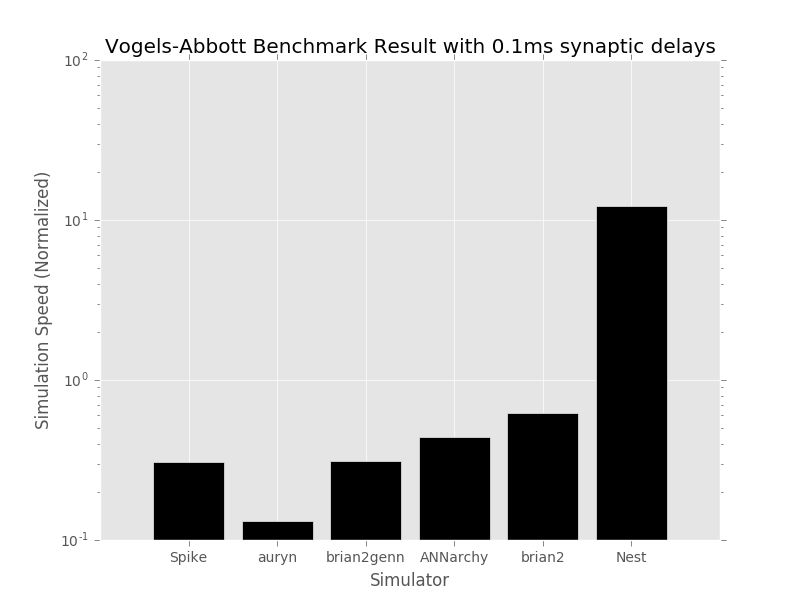
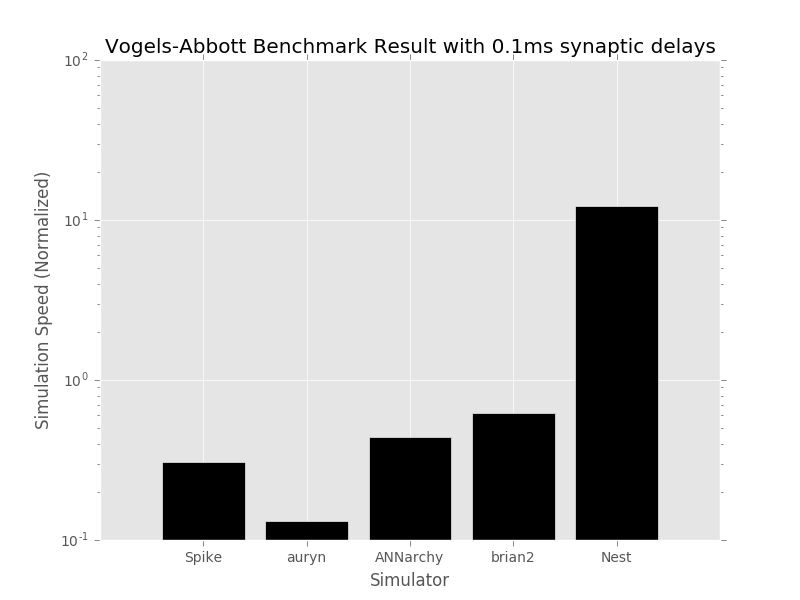
Removal of brian2genn since it is not yet published. Addition of details to files to be used for brunel comparison.

diff --git a/Benchmarks/Brunel10K/Spike/Brunel10K.cpp b/Benchmarks/Brunel10K/Spike/Brunel10K.cpp
@@ -15,7 +15,7 @@
 #include "Spike/Neurons/LIFSpikingNeurons.hpp"
 #include "Spike/Neurons/PoissonInputSpikingNeurons.hpp"
 #include "Spike/Synapses/VoltageSpikingSynapses.hpp"
-#include "Spike/Plasticity/VogelsSTDPPlasticity.hpp"
+#include "Spike/Plasticity/WeightDependentSTDPPlasticity.hpp"
 
 #include <fstream>
 #include <iostream>
@@ -31,6 +31,7 @@ int main (int argc, char *argv[]){
 	// Getting options:
 	float simtime = 20.0;
 	bool fast = false;
+  bool plastic = false;
 	int num_timesteps_min_delay = 1;
 	int num_timesteps_max_delay = 1;
 	const char* const short_opts = "";
@@ -38,7 +39,8 @@ int main (int argc, char *argv[]){
 		{"simtime", 1, nullptr, 0},
 		{"fast", 0, nullptr, 1},
 		{"num_timesteps_min_delay", 1, nullptr, 2},
-		{"num_timesteps_max_delay", 1, nullptr, 3}
+		{"num_timesteps_max_delay", 1, nullptr, 3},
+		{"plastic", 0, nullptr, 4},
 	};
 	// Check the set of options
 	while (true) {
@@ -70,6 +72,10 @@ int main (int argc, char *argv[]){
 					exit(1);
 				}	
 				break;
+			case 4:
+				printf("Running with plasticity ON\n");
+				plastic = true;
+				break;
 		}
 	};
 	
@@ -82,7 +88,22 @@ int main (int argc, char *argv[]){
 	// Create neuron, synapse and stdp types for this model
 	LIFSpikingNeurons * lif_spiking_neurons = new LIFSpikingNeurons();
 	PoissonInputSpikingNeurons * poisson_input_spiking_neurons = new PoissonInputSpikingNeurons();
-	VoltageSpikingSynapses * voltage_spiking_synapses = new VoltageSpikingSynapses();
+	VoltageSpikingSynapses * voltage_spiking_synapses = new VoltageSpikingSynapses(42);
+
+  weightdependent_stdp_plasticity_parameters_struct * WDSTDP_PARAMS = new weightdependent_stdp_plasticity_parameters_struct;
+  WDSTDP_PARAMS->a_plus = 1.0;
+  WDSTDP_PARAMS->a_minus = 1.0;
+  WDSTDP_PARAMS->tau_plus = 0.02;
+  WDSTDP_PARAMS->tau_minus = 0.02;
+  WDSTDP_PARAMS->lambda = 0.01;
+  WDSTDP_PARAMS->alpha = 2.02;
+  WDSTDP_PARAMS->w_max = 0.3;
+  WeightDependentSTDPPlasticity * weightdependent_stdp = new WeightDependentSTDPPlasticity((SpikingSynapses *) voltage_spiking_synapses, (SpikingNeurons *)lif_spiking_neurons, (SpikingNeurons *) poisson_input_spiking_neurons, (stdp_plasticity_parameters_struct *) WDSTDP_PARAMS);
+
+  if (plastic)
+    BenchModel->AddPlasticityRule(weightdependent_stdp);
+
+
 	// Add my populations to the SpikingModel
 	BenchModel->spiking_neurons = lif_spiking_neurons;
 	BenchModel->input_spiking_neurons = poisson_input_spiking_neurons;
@@ -101,8 +122,8 @@ int main (int argc, char *argv[]){
 	EXC_NEURON_PARAMS->resting_potential_v0 = 0.0f*pow(10.0, -3);	// -74mV
 	INH_NEURON_PARAMS->resting_potential_v0 = 0.0f*pow(10.0, -3);	// -82mV
 
-	EXC_NEURON_PARAMS->absolute_refractory_period = 2.0f*pow(10, -3);  // ms
-	INH_NEURON_PARAMS->absolute_refractory_period = 2.0f*pow(10, -3);  // ms
+	EXC_NEURON_PARAMS->absolute_refractory_period = 0.0f*pow(10, -3);  // ms
+	INH_NEURON_PARAMS->absolute_refractory_period = 0.0f*pow(10, -3);  // ms
 
 	EXC_NEURON_PARAMS->threshold_for_action_potential_spike = 20.0f*pow(10.0, -3);
 	INH_NEURON_PARAMS->threshold_for_action_potential_spike = 20.0f*pow(10.0, -3);
@@ -149,35 +170,37 @@ int main (int argc, char *argv[]){
 	INPUT_SYN_PARAMS->delay_range[0] = num_timesteps_min_delay*timestep;
 	INPUT_SYN_PARAMS->delay_range[1] = num_timesteps_max_delay*timestep;
 	// Set Weight Range (in mVs)
-  float weight_multiplier = pow(10.0, -3);
   float weight_val = 0.1f;
   float gamma = 5.0f;
-	EXC_OUT_SYN_PARAMS->weight_range_bottom = weight_val * weight_multiplier;
-	EXC_OUT_SYN_PARAMS->weight_range_top = weight_val * weight_multiplier;
-	INH_OUT_SYN_PARAMS->weight_range_bottom = -gamma * weight_val * weight_multiplier;
-	INH_OUT_SYN_PARAMS->weight_range_top = -gamma * weight_val * weight_multiplier;
-	INPUT_SYN_PARAMS->weight_range_bottom = weight_val * weight_multiplier;
-	INPUT_SYN_PARAMS->weight_range_top = weight_val * weight_multiplier;
+	EXC_OUT_SYN_PARAMS->weight_range_bottom = weight_val;
+	EXC_OUT_SYN_PARAMS->weight_range_top = weight_val;
+	INH_OUT_SYN_PARAMS->weight_range_bottom = -gamma * weight_val;
+	INH_OUT_SYN_PARAMS->weight_range_top = -gamma * weight_val;
+	INPUT_SYN_PARAMS->weight_range_bottom = weight_val;
+	INPUT_SYN_PARAMS->weight_range_top = weight_val;
 
 	// Biological Scaling factors (ensures that voltage is in mV)
-	//EXC_OUT_SYN_PARAMS->biological_conductance_scaling_constant_lambda = 1.0f*pow(10.0,-3);
-	//INH_OUT_SYN_PARAMS->biological_conductance_scaling_constant_lambda = 1.0f*pow(10.0,-3);
-	//INPUT_SYN_PARAMS->biological_conductance_scaling_constant_lambda = 1.0f*pow(10.0,-3);
+  float weight_multiplier = powf(10.0, -3.0);
+	EXC_OUT_SYN_PARAMS->biological_conductance_scaling_constant_lambda = weight_multiplier;
+	INH_OUT_SYN_PARAMS->biological_conductance_scaling_constant_lambda = weight_multiplier;
+	INPUT_SYN_PARAMS->biological_conductance_scaling_constant_lambda = weight_multiplier;
 
 	// Creating Synapse Populations
 	EXC_OUT_SYN_PARAMS->connectivity_type = CONNECTIVITY_TYPE_RANDOM;
 	INH_OUT_SYN_PARAMS->connectivity_type = CONNECTIVITY_TYPE_RANDOM;
 	INPUT_SYN_PARAMS->connectivity_type = CONNECTIVITY_TYPE_RANDOM;
-	EXC_OUT_SYN_PARAMS->plasticity_vec.push_back(nullptr);
-	INH_OUT_SYN_PARAMS->plasticity_vec.push_back(nullptr);
-	INPUT_SYN_PARAMS->plasticity_vec.push_back(nullptr);
+	//EXC_OUT_SYN_PARAMS->plasticity_vec.push_back(nullptr);
+	//INH_OUT_SYN_PARAMS->plasticity_vec.push_back(nullptr);
+	//INPUT_SYN_PARAMS->plasticity_vec.push_back(nullptr);
 	EXC_OUT_SYN_PARAMS->random_connectivity_probability = 0.1; // 2%
 	INH_OUT_SYN_PARAMS->random_connectivity_probability = 0.1; // 2%
 	INPUT_SYN_PARAMS->random_connectivity_probability = 0.1; // 1%
 
 	// Connect all of the populations
-	BenchModel->AddSynapseGroup(EXCITATORY_NEURONS[0], EXCITATORY_NEURONS[0], EXC_OUT_SYN_PARAMS);
 	BenchModel->AddSynapseGroup(EXCITATORY_NEURONS[0], INHIBITORY_NEURONS[0], EXC_OUT_SYN_PARAMS);
+  if (plastic)
+	  EXC_OUT_SYN_PARAMS->plasticity_vec.push_back(weightdependent_stdp);
+	BenchModel->AddSynapseGroup(EXCITATORY_NEURONS[0], EXCITATORY_NEURONS[0], EXC_OUT_SYN_PARAMS);
 	BenchModel->AddSynapseGroup(INHIBITORY_NEURONS[0], EXCITATORY_NEURONS[0], INH_OUT_SYN_PARAMS);
 	BenchModel->AddSynapseGroup(INHIBITORY_NEURONS[0], INHIBITORY_NEURONS[0], INH_OUT_SYN_PARAMS);
 	BenchModel->AddSynapseGroup(input_layer_ID, EXCITATORY_NEURONS[0], INPUT_SYN_PARAMS);
@@ -187,11 +210,16 @@ int main (int argc, char *argv[]){
 		COMPLETE NETWORK SETUP
 	*/
 	BenchModel->finalise_model();
+  printf("Total Number Of Synapses: %d\n", voltage_spiking_synapses->total_number_of_synapses);
 
 
 	// Create the simulator options
 	Simulator_Options* simoptions = new Simulator_Options();
 	simoptions->run_simulation_general_options->presentation_time_per_stimulus_per_epoch = simtime;
+  if (plastic)
+    simoptions->run_simulation_general_options->apply_plasticity_to_relevant_synapses = true;
+  else 
+    simoptions->run_simulation_general_options->apply_plasticity_to_relevant_synapses = false;
 	if (!fast){
 		simoptions->recording_electrodes_options->collect_neuron_spikes_recording_electrodes_bool = true;
 		simoptions->file_storage_options->save_recorded_neuron_spikes_to_file = true;
@@ -206,7 +234,8 @@ int main (int argc, char *argv[]){
 	clock_t totaltime = clock() - starttime;
 	if ( fast ){
 		std::ofstream timefile;
-		timefile.open("timefile.dat");
+    std::string filename = "timefile.dat";
+		timefile.open(filename);
 		timefile << std::setprecision(10) << ((float)totaltime / CLOCKS_PER_SEC);
 		timefile.close();
 	}

diff --git a/Benchmarks/Brunel10K/auryn/sim_brunel2k_pl.cpp b/Benchmarks/Brunel10K/auryn/sim_brunel2k_pl.cpp
@@ -75,6 +75,7 @@ int main(int ac,char *av[]) {
 	string fwmat_ii = "";
 	
 	bool fast = false;
+  bool plastic = false;
 	int num_timesteps_min_delay = 1;
 
 	int errcode = 0;
@@ -87,8 +88,9 @@ int main(int ac,char *av[]) {
         desc.add_options()
             ("help", "produce help message")
             ("simtime", po::value<double>(), "duration of simulation")
-            ("num_timesteps_min_delay", po::value<int>(), "the number of timesteps per minimum delay")
+            ("num_timesteps_min_delay", po::value<int>(), "minimum delay in seconds")
             ("fast", "turns off most monitoring to reduce IO")
+            ("plastic", "turns on STDP")
             ("gamma", po::value<double>(), "gamma factor for inhibitory weight")
             ("lambda", po::value<double>(), "learning rate")
             ("nu", po::value<double>(), "the external firing rate nu")
@@ -154,10 +156,13 @@ int main(int ac,char *av[]) {
 			fwmat_ii = vm["fii"].as<string>();
         } 
         if (vm.count("num_timesteps_min_delay")) {
-          num_timesteps_min_delay = vm["num_timesteps_min_delay"].as<int>();
+          num_timesteps_min_delay = vm["num_timesteps_min_delay"].as<float>();
         } 
         if (vm.count("fast")) {
           fast = true;
+        } 
+        if (vm.count("plastic")) {
+          plastic = true;
         } 
     }
     catch(std::exception& e) {
@@ -180,6 +185,7 @@ int main(int ac,char *av[]) {
 	neurons_e->e_rest = 0e-3;
 	neurons_e->e_reset = 0e-3;
 	neurons_e->thr = 20e-3;
+	neurons_e->set_delay(num_timesteps_min_delay);
 
 	IafPscDeltaGroup * neurons_i = new IafPscDeltaGroup( ni );
 	neurons_i->set_tau_mem(20.0e-3);
@@ -187,6 +193,7 @@ int main(int ac,char *av[]) {
 	neurons_i->e_rest = 0e-3;
 	neurons_i->e_reset = 0e-3;
 	neurons_i->thr = 20e-3;
+	neurons_e->set_delay(num_timesteps_min_delay);
 
 	logger->msg("Setting up Poisson input ...",PROGRESS,true);
 	// The traditional way to implement the network is with 
@@ -218,22 +225,30 @@ int main(int ac,char *av[]) {
 	
 
     logger->msg("Setting up E connections ...",PROGRESS,true);
-	STDPwdConnection * con_ee 
-		= new STDPwdConnection( 
+
+if (plastic){
+STDPwdConnection * con_ee_stdp;
+		con_ee_stdp  = new STDPwdConnection( 
 				neurons_e,
 				neurons_e,
 				w,
 				sparseness
 				);
-	con_ee->set_transmitter(MEM);
-	con_ee->set_name("E->E");
-	con_ee->set_max_weight(3*w);
-	con_ee->set_alpha(2.02);
-	con_ee->set_lambda(lambda); 
-  /*
-	SparseConnection * con_ee
-		= new SparseConnection( neurons_e,neurons_e,w,sparseness,MEM);
-    */
+	con_ee_stdp->set_transmitter(MEM);
+	con_ee_stdp->set_name("E->E");
+	con_ee_stdp->set_max_weight(3*w);
+	con_ee_stdp->set_alpha(2.02);
+	con_ee_stdp->set_lambda(lambda); 
+	con_ee_stdp->sanity_check();
+	if ( !fwmat_ee.empty() ) con_ee_stdp->load_from_complete_file(fwmat_ee);
+} else {
+  SparseConnection * con_ee;
+	con_ee = new SparseConnection( neurons_e,neurons_i,w,sparseness,MEM);
+	con_ee->sanity_check();
+	if ( !fwmat_ee.empty() ) con_ee->load_from_complete_file(fwmat_ee);
+
+}
+
 
 	SparseConnection * con_ei 
 		= new SparseConnection( neurons_e,neurons_i,w,sparseness,MEM);
@@ -276,7 +291,6 @@ int main(int ac,char *av[]) {
 		sys->load_network_state(load);
 	}
 
-	if ( !fwmat_ee.empty() ) con_ee->load_from_complete_file(fwmat_ee);
 	if ( !fwmat_ei.empty() ) con_ei->load_from_complete_file(fwmat_ei);
 	if ( !fwmat_ie.empty() ) con_ie->load_from_complete_file(fwmat_ie);
 	if ( !fwmat_ii.empty() ) con_ii->load_from_complete_file(fwmat_ii);
@@ -287,7 +301,6 @@ int main(int ac,char *av[]) {
 	// con_ii->prune();
 
 	// logger->msg("Running sanity check ...",PROGRESS,true);
-	con_ee->sanity_check();
 	con_ei->sanity_check();
 	con_ie->sanity_check();
 	con_ii->sanity_check();

diff --git a/Benchmarks/Brunel10K/ANNarchy/Brunel10K.py b/Benchmarks/Brunel10K/ANNarchy/Brunel10K.py
@@ -1,12 +1,13 @@
 import getopt, sys, timeit
 try:
-    optlist, args = getopt.getopt(sys.argv[1:], '', ['fast', 'simtime=', 'num_timesteps_min_delay=', 'num_timesteps_max_delay='])
+    optlist, args = getopt.getopt(sys.argv[1:], '', ['plastic', 'fast', 'simtime=', 'num_timesteps_min_delay=', 'num_timesteps_max_delay='])
 except getopt.GetoptError as err:
     print(str(err))
     sys.exit(2)
 
 simtime = 1.0
 fast = False
+plastic = False
 num_timesteps_min_delay = 1
 num_timesteps_max_delay = 1
 for o, a in optlist:
@@ -27,6 +28,9 @@ for o, a in optlist:
             print("ERROR: Max delay should not be smaller than min!")
             exit(1)
         print("Maximum delay (in number of timesteps): " + a)
+    elif (o == "--plastic"):
+        plastic = True
+        print("Running with plasticity on\n")
 
 from ANNarchy import *
 from pylab import *
@@ -116,7 +120,10 @@ noise = PoissonPopulation(geometry=10000, rates=20.0)
 # ###########################################
 # Projections
 # ###########################################
-ee = Projection(PE, PE, 'exc')
+if (plastic):
+    ee = Projection(PE, PE, 'exc', STDP)
+else:
+    ee = Projection(PE, PE, 'exc')
 ee.connect_fixed_number_pre(number=CE, weights=Uniform(0.5*JE, 1.5*JE), delays=delay)
 ei = Projection(PE, PI, 'exc')
 ei.connect_fixed_number_pre(number=CE, weights=Uniform(0.5*JE, 1.5*JE), delays=delay)

diff --git a/README.md b/README.md
@@ -10,7 +10,6 @@ Currently the simulators being compared are:
 - [Auryn](https://github.com/fzenke/auryn)
 - [ANNarchy](https://github.com/ANNarchy/ANNarchy)
 - [Spike](https://github.com/nasiryahm/Spike)
-- [Brian2 with GeNN (General Neural Network Simulator)](https://github.com/brian-team/brian2genn)
 
 ## Results
 ### Vogels Abbott Benchmark
@@ -44,12 +43,10 @@ Spike, Auryn and Nest are auto compiled (using make). Ensure that the dependenci
 ANNarchy and Brian can be installed using `pip install Simulators/ANNarchy/` and `pip install Simulators/brian2` from this location. Again, ensure that the dependencies are pre-installed.
 The dependencies and packages required for the installation of these two packages can be found in the requirements.txt file in the root of this repo.
 
-Brian with GeNN must be installed separately. If using conda, `conda install -c brian-team brian2genn`. Otherwise, you must set the `CUDA\_PATH` and `GENN\_PATH` variables and add `${GENN\_PATH}/lib/bin` to `PATH`. Following this, it can be installed as above with pip: 'pip install Simulators/brian2genn'
-
 ## Running a speed test
 "run\_benchmark.sh" is a bash script that outlines the simulation length and delay style to simulate in each simulator. Edit this to run a given style of benchmark (at the moment VogelsAbbott benchmark only). This will produce a timefile.dat file in each folder under "Benchmarks/VogelsAbbott/SIMULATOR". This timefile.dat contains a single ASCII float which is the time required to run the simulation (simulation run time only, not for the rest of the script). The "Benchmarks/VogelsAbbott/\_results" folder contains a plotting.py file with the matplotlib commands used to produce the results plots.
 
 ## Testing ranges of delays:
 Spike, Brian2, and Nest support ranges of delays. ANNarchy informs us that it can handle uniform delays (experimentally) though does not compile in this case.
 
-Auryn and Brian2GeNN do not seem to support ranges of delays.
+Auryn does not currently support ranges of delays.
